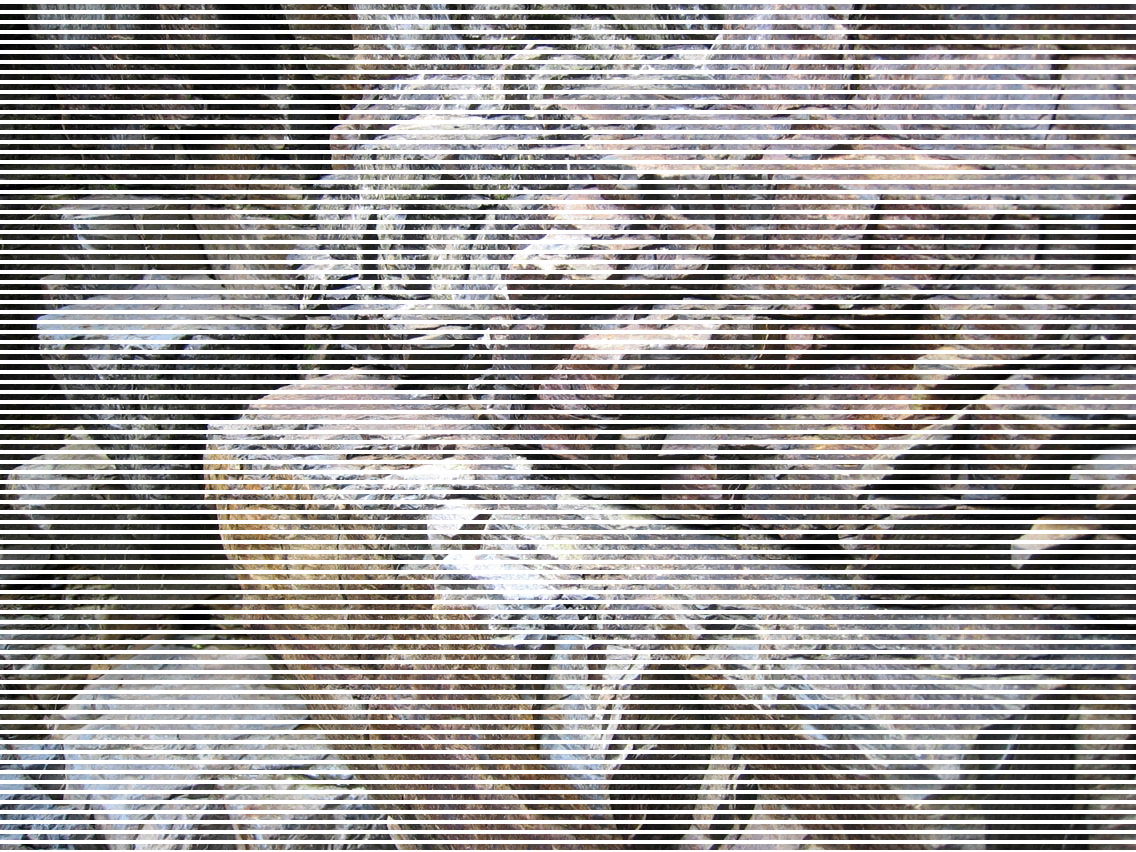
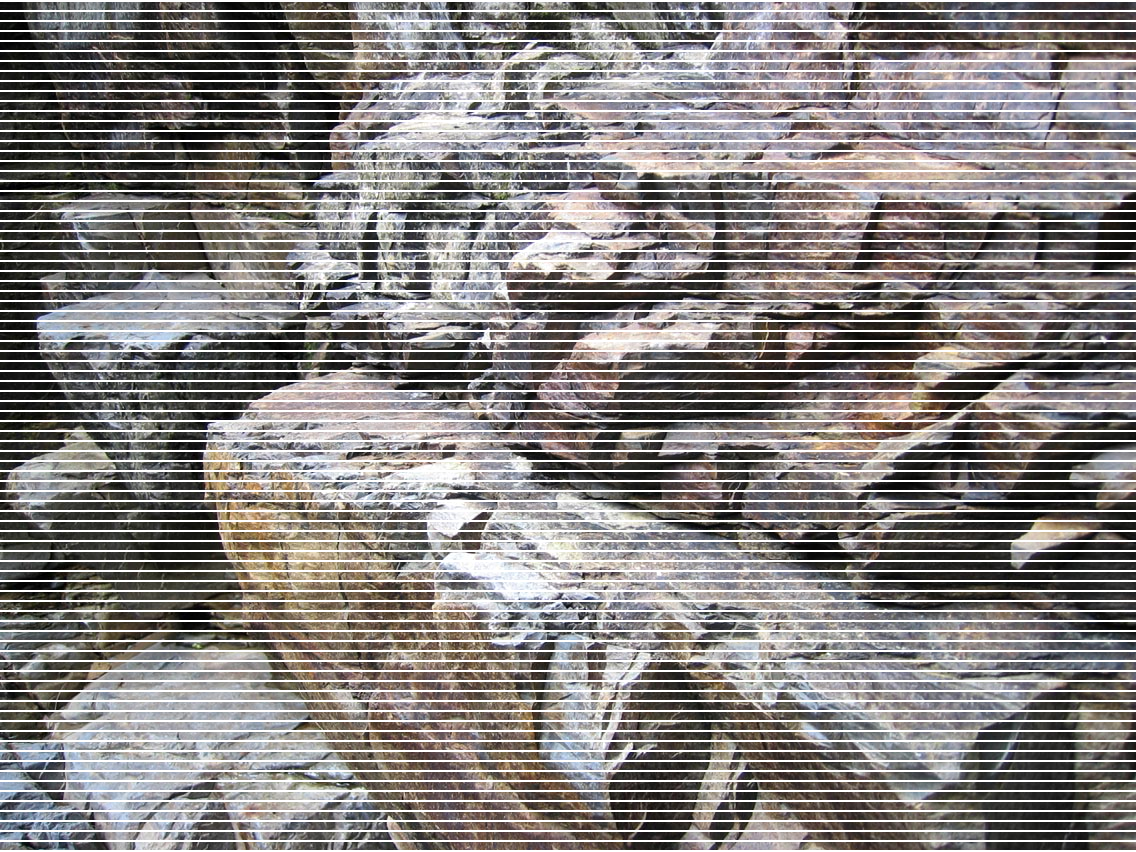
rewrite of processing

Changed region(s): [[0.0, 0.0, 1.0, 1.0]]

diff --git a/imagePrep.js b/imagePrep.js
@@ -23,48 +23,8 @@ function convertPNG(fileIn, fileOut, onFinish) {
 }
 
 
-function compositeTest() {
-   const options = {
-      raw: {
-         width: 400,
-         height: 400,
-         channels: 4
-      }
-   };
-   const base = sharp('./tmp/color.png').raw().toBuffer();
-
-
-   const composite = [
-      './tmp/accent0.png',
-      './tmp/accent1.png',
-      './tmp/shading.png',
-      './tmp/highlight.png',
-      './tmp/lineart.png'
-   ].reduce(function(input, overlay) {
-      return input.then(function(data) {
-         console.log("reducing");
-         return sharp(data, options).overlayWith(overlay).raw().toBuffer();
-      });
-   }, base);
-
-   console.log("about to output");
-
-   composite.then(function(data) {
-      // data contains the multi-composited image as raw pixel data
-      console.log("outputting");
-      sharp(data, options).png().toFile('./tmp/composite.png');
-   });
-
-}
-
-
-// TODO  - make compatible with variable input channels
-//       - make on and off settable
-//       - make reverse work (channel order)
-function doFlipAndOverlay(imageIn, imageOut) {
-   //doStripOperation(imageIn, imageOut, 30, false, flipAndOverlay);
-
-   sharp(imageIn).overlayWith(
+function doHorizOperation(fileIn, fileOut, onRows, offRows, reverse) {
+   sharp(fileIn).overlayWith(
     new Buffer([0, 0, 0, 0]),
     { tile: true, raw: { width: 1, height: 1, channels: 4 } }
   ).metadata(function(err, metadata) {
@@ -74,29 +34,39 @@ function doFlipAndOverlay(imageIn, imageOut) {
    }).raw().toBuffer().then(function(buffer) {
 
       const buffCopy = Object.assign({}, buffer);
-
+      const rowCycle = onRows + offRows;
+      console.log(channels);
       for (var i = 0; i < (height); i += 1) {
-         if (reverseRow(i, 4, 6)) {
+         if (i % rowCycle < onRows) {
             var start = rowStart(width, channels, i);
             var end = rowEnd(width, channels, i);
-            for (var j = 0; j < (width * channels); j += 1) {
-               //buffer[start + j] = buffCopy[end - j];
-               buffer[start + j]=0;
+            for (var j = 0; j < (width * channels); j += channels) {
+               if(!reverse)
+                  // set alpha channel to 0
+                  buffer[start + j + channels -1]=0;
+               else 
+                  // switch with mirror pixel
+               for(var k=0; k<channels; k++){
+                  buffer[start + j + k] = buffCopy[end + k - (j + channels -1)];
+               }
             }
          }
       }
-
      sharp(buffer, {
          raw: {
             width: width,
             height: height,
             channels: channels
          }
-      }).png().toFile(imageOut, function(cb) {
+      }).png().toFile(fileOut, function(cb) {
          console.log('cb')
       });
    });
 }
+
+
+
+
 
 
 function rowStart(width, channels, rowNo) {
@@ -105,10 +75,6 @@ function rowStart(width, channels, rowNo) {
 
 function rowEnd(width, channels, rowNo) {
    return (width * channels * rowNo) + (width * channels) - 1;
-}
-
-function reverseRow(rowNo, on, off) {
-   return (rowNo % (on + off)) < on;
 }
 
 
@@ -138,89 +104,7 @@ function carve(sharpBaseImg, sharpOverlay) {
    })
 }
 
-function doStripOperation(imageIn, imageOut, stripCount, isHoriz, operation) {
-   // todo - convert to work with generated SVG, simpler, more flexible, single step
-   const image = sharp(imageIn);
-   console.log("marker 1");
-
-   image.metadata()
-      .then(function(metadata) {
-         const options = {
-            raw: {
-               width: metadata.width,
-               height: metadata.height,
-               channels: metadata.channels
-            }
-         };
-         console.log("channels: " + metadata.channels);
-
-         console.log("marker 2");
-         const base = image.raw().toBuffer();
-         const stripW = isHoriz ? metadata.width : Math.floor(metadata.height / stripCount);
-         const stripH = isHoriz ? Math.floor(metadata.width / stripCount) : metadata.height;
-         const stripWOffset = isHoriz ? stripH * 2 : 0;
-         const stripHOffset = isHoriz ? 0 : stripW * 2;
-         var stripPosW = 0,
-            stripPosH = 0;
-         console.log("marker 3");
-
-         const stripList = makeStrips(metadata.width,
-               metadata.height,
-               stripCount,
-               isHoriz)
-            .reduce(function(input, overlay) {
-               console.log("reduce 1");
-               return input.then(function(data) {
-                  stripPosW += stripWOffset;
-                  stripPosH += stripHOffset;
-                  console.log("reduce 2");
-                  return sharp(data, options)
-                     .overlayWith(overlay, {
-                        top: stripPosW,
-                        left: stripPosH
-                     })
-                     .raw().toBuffer();
-                  console.log("do we get here?");
-               });
-            }, base);
-
-         stripList.then(function(data) {
-            console.log("outputting");
-            sharp(data, options).png().toFile(imageOut);
-            //operation(image, sharp(data, options)).png().toFile(imageOut);
-            console.log("promises complete");
-         });
-      });
-   console.log("function exits");
-}
-
-
-function makeStrips(stripW, stripH, count, isHoriz) {
-   console.log("makeStrips");
-   const channels = 3;
-   const rgbaPixel = 0x00000000;
-   const canvas = Buffer.alloc(stripW * stripH * channels, rgbaPixel);
-   const strip = sharp(canvas, {
-      raw: {
-         width: stripW,
-         height: stripH,
-         channels: channels
-      }
-   });
-
-   count = Math.floor(count / 2); // an object for every other strip
-   const stripList = [strip.toBuffer()]
-
-   while (count-- > 1) {
-      console.log("stripcount: " + count);
-      stripList.push(strip.toBuffer());
-   }
-   return stripList;
-}
-
-
 
 exports.convertPNG = convertPNG;
 exports.setup = setup;
-exports.compositeTest = compositeTest;
-exports.doFlipAndOverlay = doFlipAndOverlay;
+exports.doHorizOperation = doHorizOperation;

diff --git a/requestHandlers.js b/requestHandlers.js
@@ -11,8 +11,13 @@ var imageProcess;
 
 function setup(imageProcessor){
 	imageProcess = imageProcessor;
-	imageProcess.doFlipAndOverlay("./tmp/rocks.jpg","./tmp/rocksoff.png");
-}
+
+	//imageProcess.convertPNG("./tmp/rocks.jpg", "./tmp/rocks.png");
+
+	imageProcess.doHorizOperation(	"./tmp/rocks.jpg",
+										"./tmp/rocksoff.png",
+										2, 8, false );
+	}
 
 function start(response, postData) {
 	console.log("Request handler 'start' was called.");
